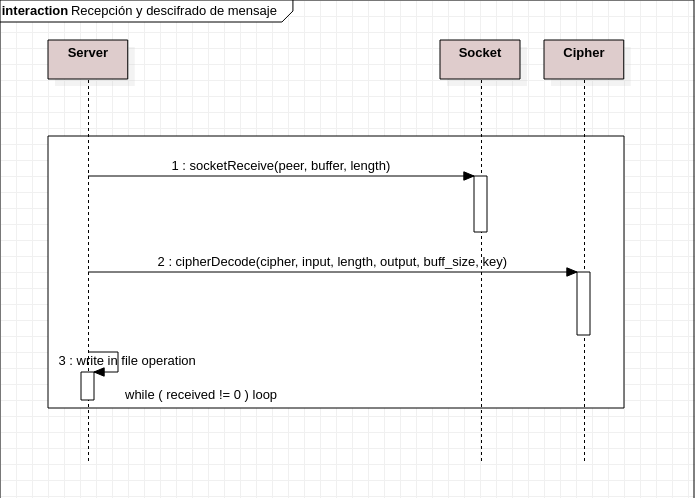
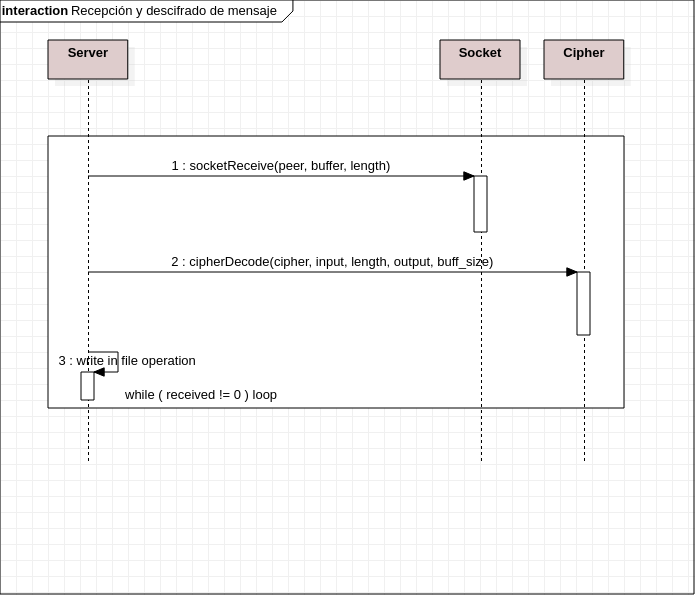
Actualizo el informe

diff --git a/README.md b/README.md
@@ -99,6 +99,17 @@ En esta sección se indican algunas suposiciones realizadas y decisiones tomadas
 
 - Si bien la implementación del server se encuentra diseñada para aceptar un único cliente en simultáneo, algunas funciones apuntan al hecho de que se puedan aceptar varios clientes (como serverAccept). Esto se debe a que si en un futuro se desea realizar dicha modificación, no sea necesario realizar cambios en toda la biblioteca.
 
+### Fixes
+Para la reentrega del presente trabajo se realizó la siguiente modificación del modelo. Ahora el TDA Cipher contiene una instancia de cada TDA de cifrado (Caesar, RC4 y Vigenere) y el nombre del método a utilizar, en base al cual se elige a qué función de cifrado llamar. Además, dichos TDAs de cifrado ya no dependen de `CipherInfo`, sino que cada uno de ellos contiene toda la información necesaria para realizar las operaciones de codificación/decodificación.
+
+De esta manera, el diagrama UML actualizado resulta como se muestra a continuación.
+
+![alt text][cifradores_fixed]
+
+Asimismo, al actualizar el esquema de la relación cliente-servidor se observa lo siguiente.
+
+![alt text][cliente-servidor_fixed]
+
 ## Conclusión
 
 Este trabajo resultó de gran ayuda para comprender el funcionamiento de un socket y de un esquema cliente servidor. Además, el hecho de haberlo realizado en el lenguaje de progrmación C permite comprender en buena medida cómo funciona este aspecto básico y fundamental para un ingeniero informático/licenciado y que, a día de hoy, forma parte de la vida cotidiana de todos.
@@ -106,6 +117,8 @@ Este trabajo resultó de gran ayuda para comprender el funcionamiento de un sock
 
 
 [cliente-servidor]:https://github.com/gonzalomartinezs/tp1-taller/blob/master/img/cl-sv.png
+[cliente-servidor_fixed]:https://github.com/gonzalomartinezs/tp1-taller/blob/master/img/cl-sv_fixed.png
 [cifradores]:https://github.com/gonzalomartinezs/tp1-taller/blob/master/img/cifradores.png
+[cifradores_fixed]:https://github.com/gonzalomartinezs/tp1-taller/blob/master/img/cifradores_fixed.png
 [send]:https://github.com/gonzalomartinezs/tp1-taller/blob/master/img/send.png
 [recv]:https://github.com/gonzalomartinezs/tp1-taller/blob/master/img/recv.png
